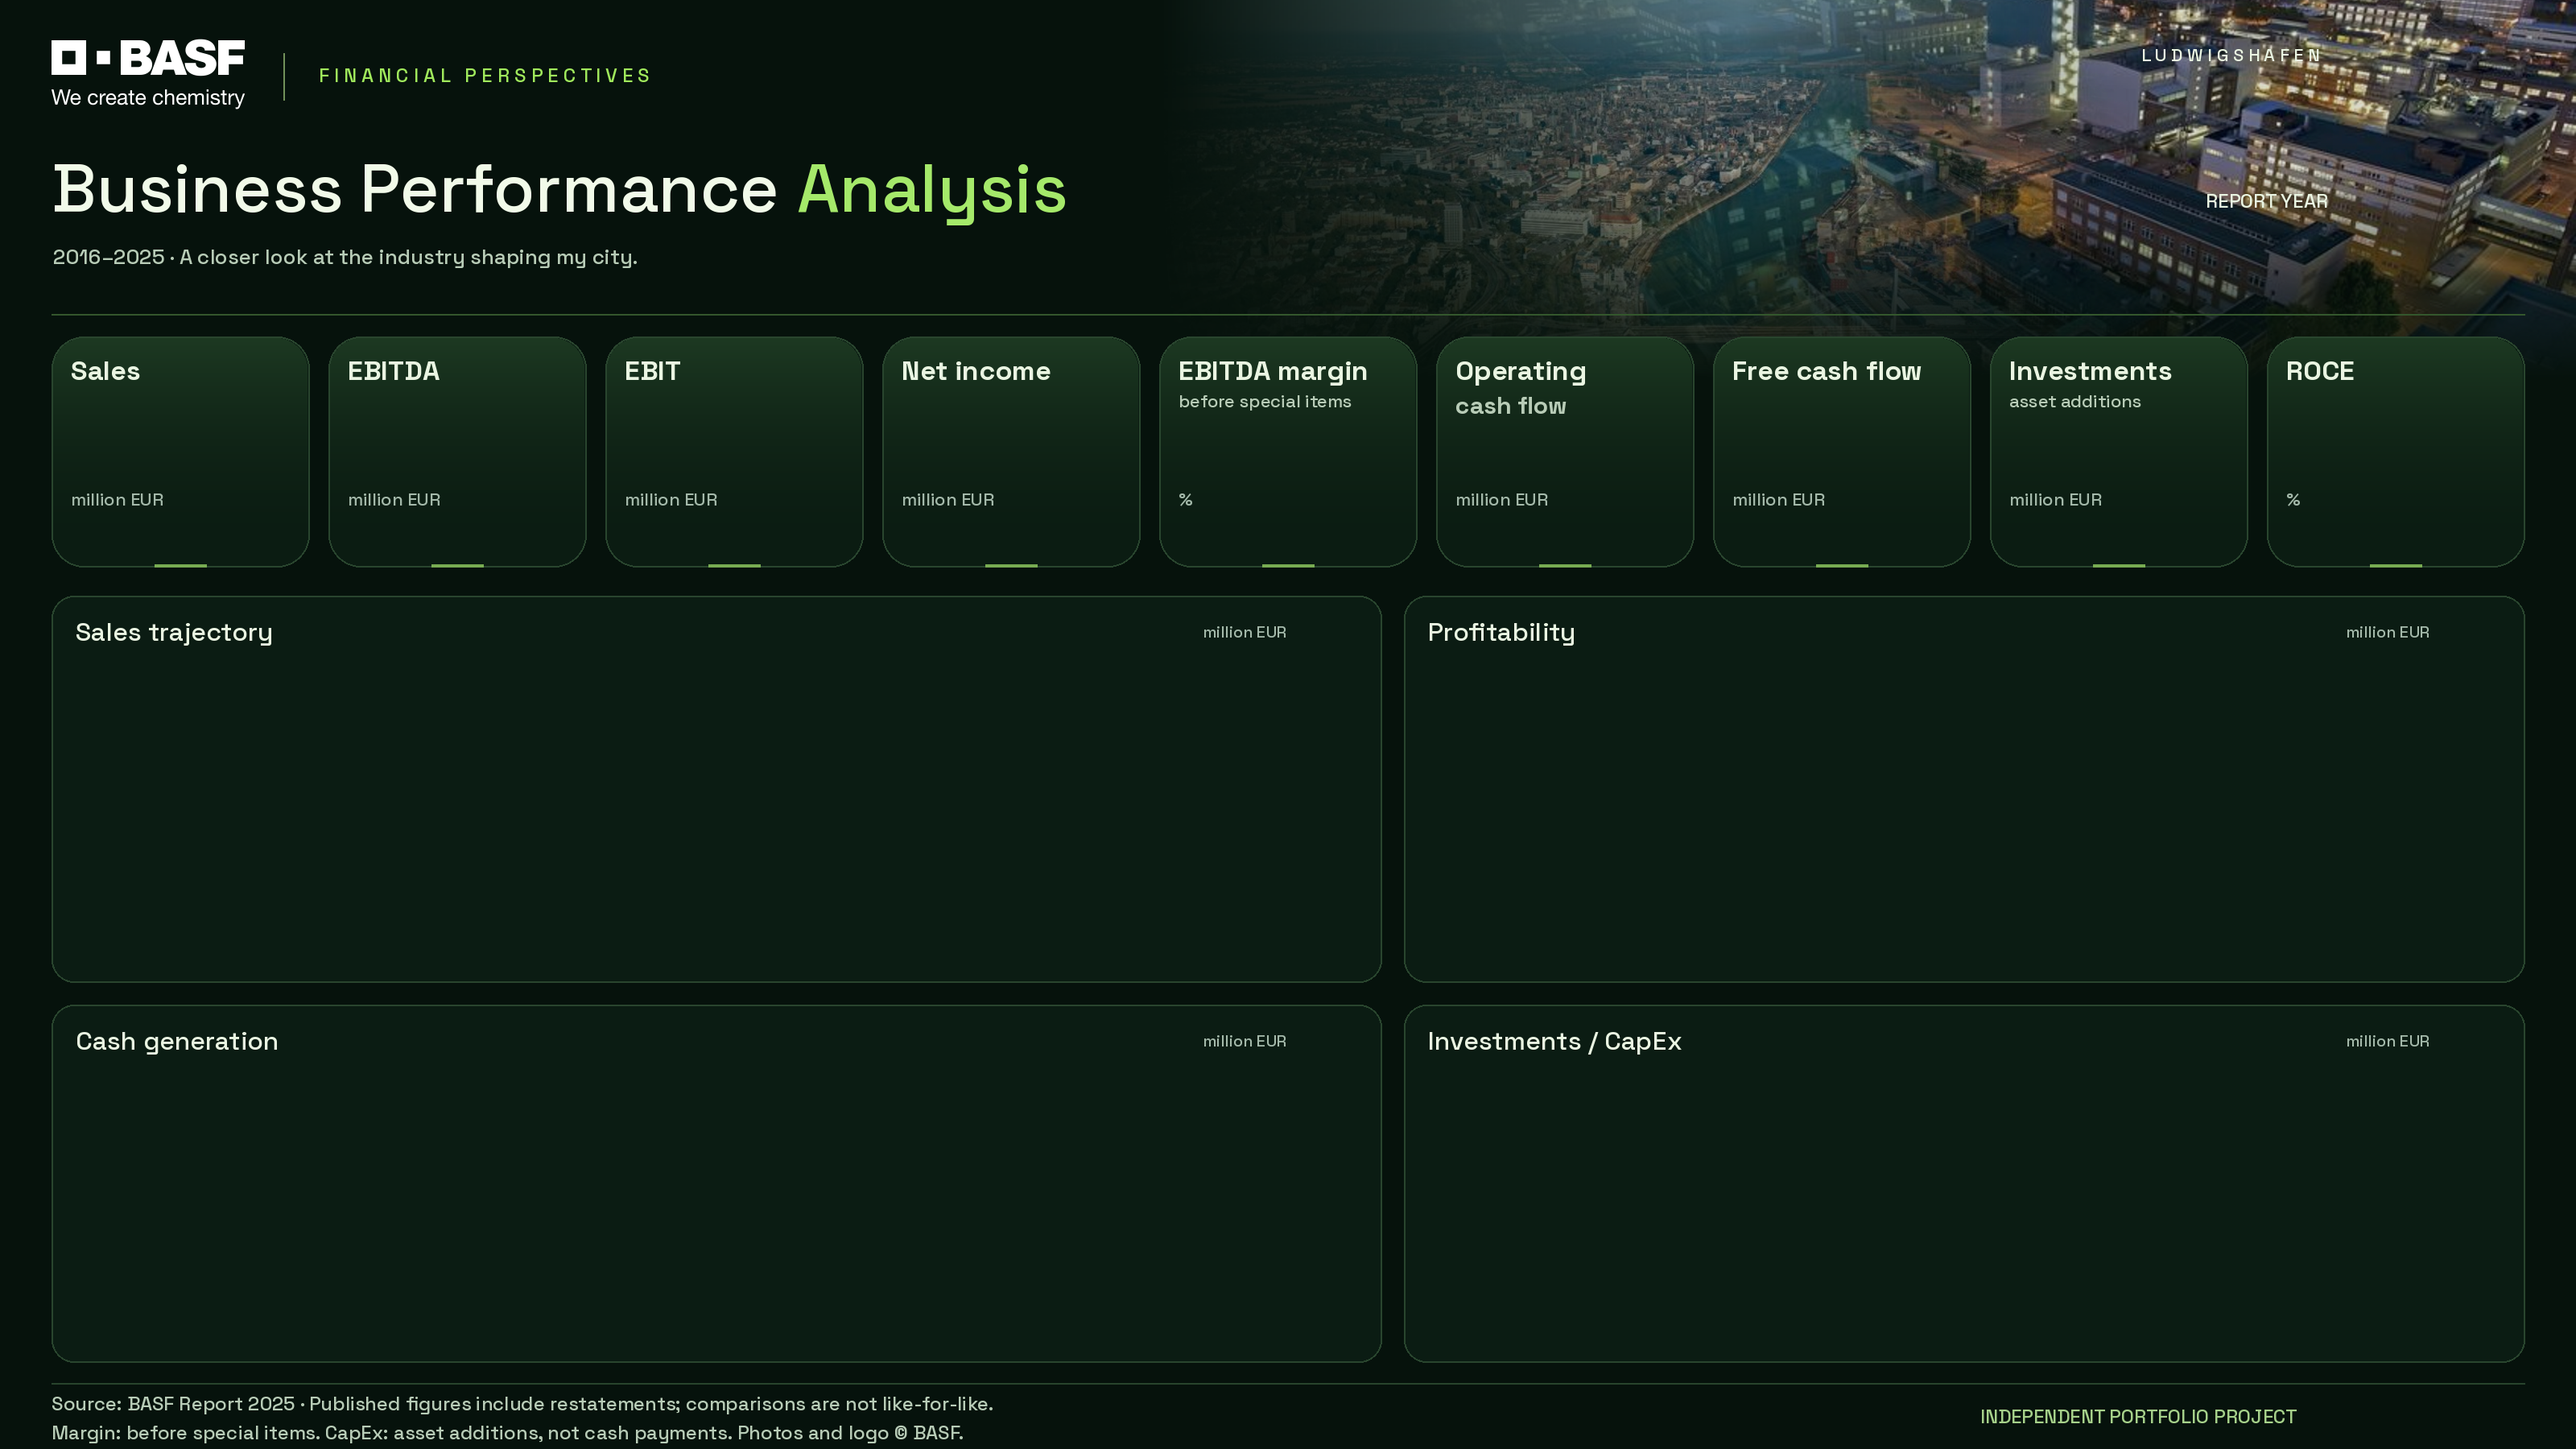
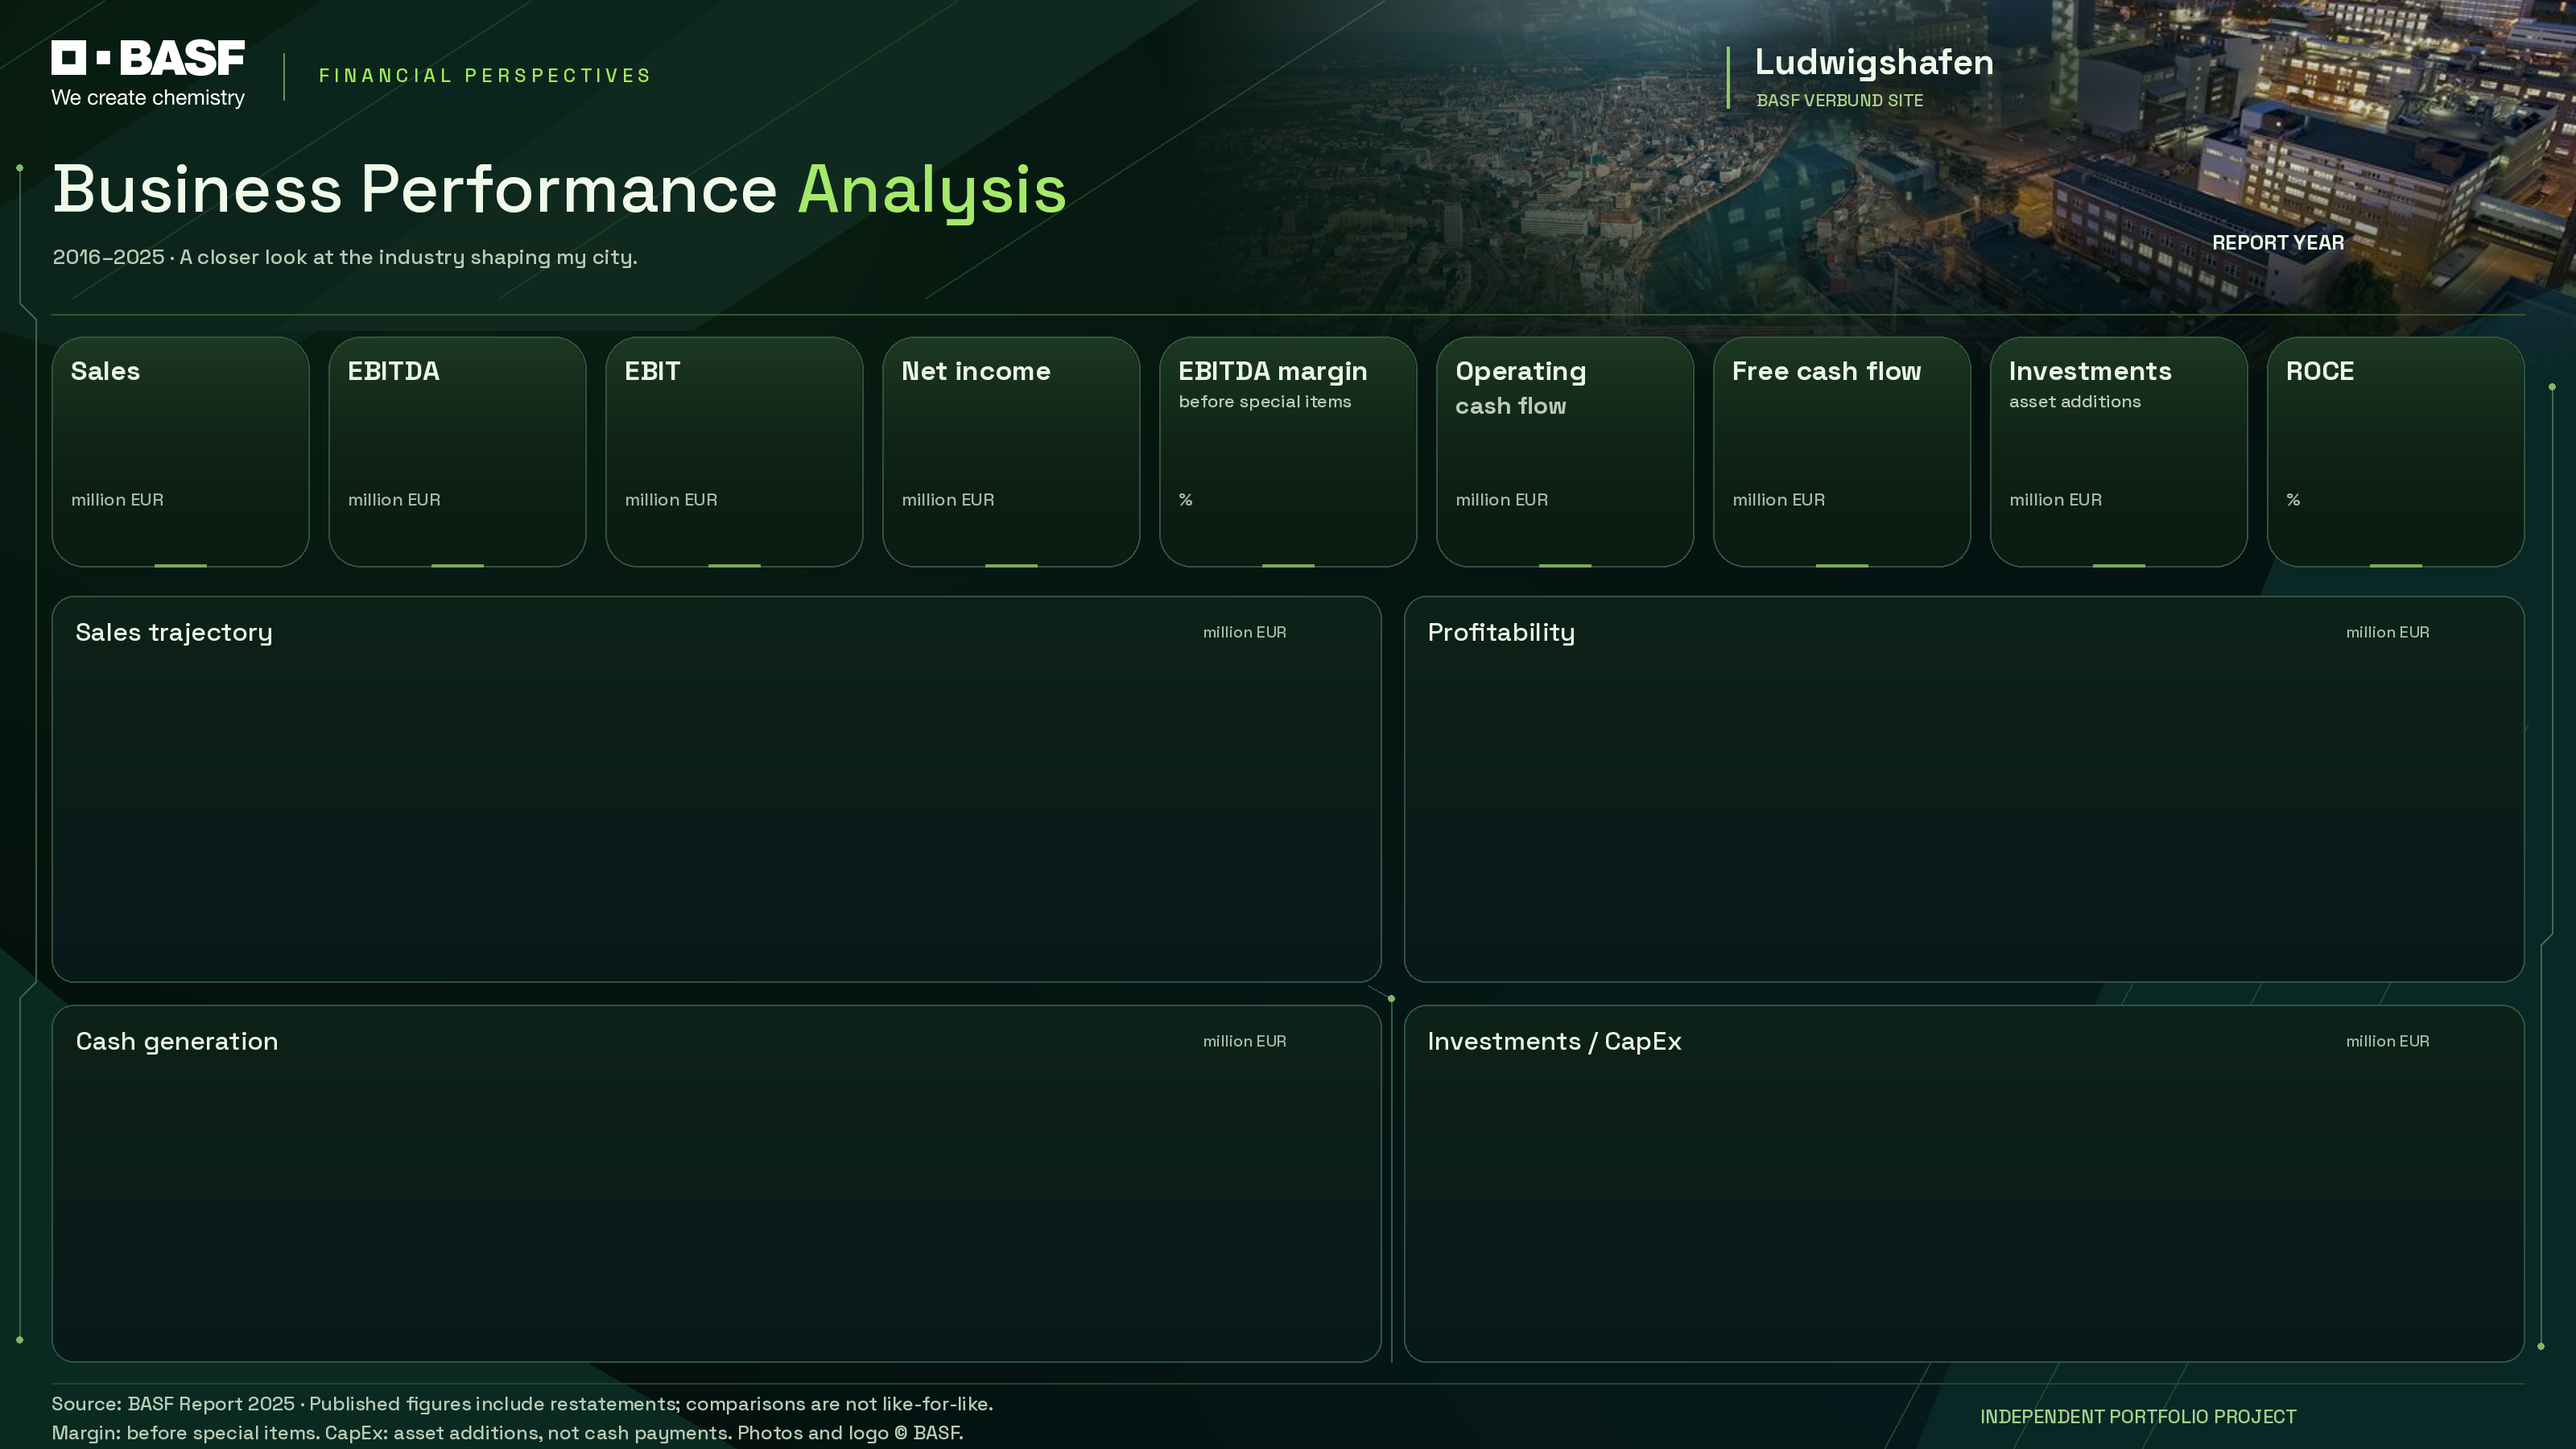
Add geometric green background and integrate header captions

Changed region(s): [[0.7188, 0.2489, 1.0, 1.0], [0.6562, 0.0, 0.875, 0.1244], [0.875, 0.1244, 0.9062, 0.1867]]

diff --git a/tools/render_powerbi_background.py b/tools/render_powerbi_background.py
@@ -4,6 +4,7 @@ Requires Pillow and Inkscape. Uses the original BASF logo SVG unchanged.
 Run from any directory: python tools/render_powerbi_background.py
 """
 from pathlib import Path
+import math
 import subprocess
 import tempfile
 from PIL import Image, ImageDraw, ImageFont, ImageOps, ImageFilter
@@ -14,7 +15,36 @@ OUT = BASE / 'BASF.Report/StaticResources/RegisteredResources'
 OUT.mkdir(parents=True, exist_ok=True)
 W, H = 1600, 900
 S = 2
-canvas = Image.new('RGB', (W*S, H*S), '#06120C')
+# Smooth emerald/teal light fields, with geometric facets in the negative space.
+# These are decorative assets, never financial chart marks.
+small = Image.new('RGB', (400, 225))
+px = small.load()
+for yy in range(225):
+    for xx in range(400):
+        u, v = xx/399, yy/224
+        emerald = math.exp(-((u-.16)**2/.15 + (v-.10)**2/.20))
+        teal = math.exp(-((u-.92)**2/.30 + (v-.88)**2/.25))
+        px[xx, yy] = (int(4+5*emerald+2*teal), int(14+17*emerald+14*teal), int(11+8*emerald+18*teal))
+canvas = small.resize((W*S, H*S), Image.Resampling.BICUBIC)
+art = ImageDraw.Draw(canvas)
+def polygon(points, fill):
+    art.polygon([(int(x*S), int(y*S)) for x,y in points], fill=fill)
+def trace(points, fill='#234936', width=1):
+    art.line([(int(x*S),int(y*S)) for x,y in points], fill=fill, width=width*S)
+
+polygon([(-80,180),(310,-70),(660,-70),(130,245)], '#0C251C')
+polygon([(490,-30),(790,-30),(430,205),(170,205)], '#10291E')
+polygon([(1460,230),(1660,150),(1660,900),(1190,900)], '#092725')
+polygon([(-40,555),(180,740),(510,930),(-40,930)], '#0A2921')
+for x in (-220, 45, 310, 575):
+    trace([(x,185),(x+285,0)], '#1C3C2B')
+for x in (1410,1490,1570):
+    trace([(x,450),(x-240,900)], '#20463C')
+trace([(12,104),(12,188),(22,198),(22,610),(12,620),(12,832)], '#396645')
+trace([(1585,240),(1585,580),(1578,587),(1578,836)], '#386C5C')
+trace([(850,612),(864,620),(864,846)], '#345E4E')
+for x,y in [(12,104),(12,832),(1585,240),(1578,836),(864,620)]:
+    art.ellipse(((x-2)*S,(y-2)*S,(x+2)*S,(y+2)*S),fill='#80B76A')
 
 # Original BASF photos, touching top/right edges, faded into the canvas.
 for filename, x, width, opacity in [('night.jpg', 890, 710, .85), ('day.jpg', 720, 600, .55)]:
@@ -36,7 +66,16 @@ def text(x, y, value, size=12, fill='#B8CCB7', strong=False):
     draw.text((x*S, y*S), value, font=ImageFont.truetype(str(ASSETS/face), size*S), fill=fill)
 
 def panel(x, y, w, h, radius=14):
-    draw.rounded_rectangle((x*S, y*S, (x+w)*S, (y+h)*S), radius=radius*S, fill='#0B1C13', outline='#29452E', width=S)
+    # Calm gradients inside plots preserve contrast without a flat black-green slab.
+    tile = Image.new('RGB', (w*S,h*S))
+    td = ImageDraw.Draw(tile)
+    for row in range(h*S):
+        t = row/(h*S)
+        td.line((0,row,w*S,row),fill=(int(13-5*t),int(34-9*t),int(24+2*t)))
+    mask = Image.new('L',tile.size)
+    ImageDraw.Draw(mask).rounded_rectangle((0,0,w*S-1,h*S-1),radius=radius*S,fill=255)
+    canvas.paste(tile,(x*S,y*S),mask)
+    draw.rounded_rectangle((x*S,y*S,(x+w)*S,(y+h)*S),radius=radius*S,outline='#315341',width=S)
 
 with tempfile.TemporaryDirectory() as temp:
     p = Path(temp)/'logo.png'
@@ -51,8 +90,16 @@ font = ImageFont.truetype(str(ASSETS/'SpaceGrotesk-Medium.ttf'), 42*S)
 advance = draw.textlength('Business Performance ', font=font)/S
 text(32+advance, 90, 'Analysis', 42, '#A5E96A')
 text(33, 151, '2016–2025 · A closer look at the industry shaping my city.', 13)
-text(1330, 27, 'L U D W I G S H A F E N', 11, '#EAF5E2')
-text(1370, 117, 'REPORT YEAR', 12, '#EAF5E2')
+# Location belongs to the photo treatment rather than floating in a corner.
+shade = Image.new('RGBA',canvas.size)
+ImageDraw.Draw(shade).ellipse((1050*S,4*S,1390*S,95*S),fill=(3,18,14,155))
+shade = shade.filter(ImageFilter.GaussianBlur(19*S))
+canvas.paste(shade,(0,0),shade)
+draw.line((1073*S,29*S,1073*S,67*S),fill='#8ECD68',width=2*S)
+text(1090, 24, 'Ludwigshafen', 22, '#EFF8E9', strong=True)
+text(1091, 55, 'BASF VERBUND SITE', 11, '#A8D18A')
+# The native dropdown sits toward the bottom of its slicer box.
+text(1374, 142, 'REPORT YEAR', 13, '#EAF5E2', strong=True)
 draw.line((32*S, 195*S, 1568*S, 195*S), fill='#34572D', width=S)
 
 labels = [('Sales', ''), ('EBITDA', ''), ('EBIT', ''), ('Net income', ''),

diff --git a/docs/powerbi_implementation.md b/docs/powerbi_implementation.md
@@ -43,6 +43,14 @@ slicer selection and enlarges the source/comparability footer to 12px. The saved
 selection also passed Microsoft's semantic-filter schema check. V5 initial
 selection and footer rendering still require Desktop review.
 
+The V5 screenshot subsequently confirmed the visible 2025 selection and enlarged
+footer. V6 changes only the decorative background: emerald/teal gradients,
+diagonal facets and perimeter traces; a larger Ludwigshafen caption integrated
+with the photographs; and a report-year caption positioned nearer the native
+dropdown. Plot surfaces remain quiet gradients without decorative data marks.
+Native visual geometry, measures and the data snapshot are unchanged. V6 caption
+alignment and decorative rendering remain subject to Desktop review.
+
 ## Opening the project on Windows
 
 1. Extract the complete package with **Extract all**. Do not open files inside
@@ -131,7 +139,7 @@ Completed outside Desktop:
   filenames and theme registration checked.
 - Decorative background rendered and visually inspected separately.
 
-**Pending in Desktop for V5:** reopen/refresh, visible 2025 selection and footer legibility, full DAX acceptance tests, font rendering, chart
+**Pending in Desktop for V6:** reopen/refresh, caption alignment and decorative background, full DAX acceptance tests, font rendering, chart
 colours, negative profitability values, legends, label clipping, slicer operation,
 blank display, keyboard readability and final PDF/screenshot export. Run
 `BASF/verify_in_desktop.dax` in DAX Query View; it must return PASS on every row.

diff --git a/docs/powerbi_design.md b/docs/powerbi_design.md
@@ -14,7 +14,10 @@ Its definitions have passed structural/schema checks. The V2 Desktop review
 confirmed the 2025 values and native charts; V3 corrects the absent decorative
 background and font fallback. V3 rendering was confirmed; V4 addresses overlapping
 callouts/units and strengthens KPI headings. V4 spacing was confirmed; V5 sets an
-explicit initial 2025 selection and enlarges footer notes. Final V5 appearance and acceptance checks remain
+explicit initial 2025 selection and enlarges footer notes, confirmed in Desktop.
+V6 adds emerald/teal geometric facets and perimeter traces, integrates the
+Ludwigshafen caption with the photos and places the report-year caption nearer
+the dropdown. Final V6 appearance and acceptance checks remain
 pending. See [implementation status and opening
 instructions](powerbi_implementation.md). The browser preview remains a separate
 design reference.
@@ -23,6 +26,8 @@ design reference.
 
 - A single landscape page, targeting a 16:9 desktop canvas.
 - Dark green background with bright green accents and readable pale text.
+- Native V6 refinement: emerald/teal gradients, diagonal facets and perimeter
+  traces outside the data areas; subdued gradient plot surfaces.
 - Space Grotesk for the title, values and labels; the browser preview loads the
   font from Google Fonts and falls back to Segoe UI if unavailable.
 - The original white BASF logo and its “We create chemistry” claim at top left.

diff --git a/powerbi/BASF/START_HERE.it.md b/powerbi/BASF/START_HERE.it.md
@@ -1,12 +1,13 @@
 # Aprire il progetto BASF
 
-Questa è la versione V5 del progetto nativo Power BI, con il 2025 preselezionato
-e note finali più leggibili. La V4 ha confermato titoli delle schede più grandi e
-in grassetto e separazione di numeri e unità. La selezione iniziale e le note V5
-vanno ancora verificate in Desktop. Il precedente file di preparazione
+Questa è la versione V6 del progetto nativo Power BI, con sfondo geometrico
+smeraldo/teal, Ludwigshafen integrata sopra le foto e «Report year» più vicino
+al selettore. La V5 ha confermato il 2025 preselezionato e note finali più leggibili.
+L'allineamento delle nuove scritte e lo sfondo V6 vanno ancora verificati in Desktop.
+Il precedente file di preparazione
 non viene modificato.
 
-Pacchetto corretto V5: estrailo in una cartella nuova. Non sovrascrivere la prima
+Pacchetto V6: estrailo in una cartella nuova. Non sovrascrivere la prima
 prova già aperta o aggiornata da Power BI. Chiudi quella finestra prima di aprire
 questo progetto. Se compare ancora l'avviso rosso sui metadati avanzati, non premere
 «Aggiorna report»: mostra l'avviso per proseguire con la diagnosi.

diff --git a/README.de.md b/README.de.md
@@ -175,7 +175,9 @@ Hintergrundbild-Struktur und die Schrift-Ausweichlösung korrigiert.
 Die V3-Prüfung bestätigte den Hintergrund. V4 vergrößert die Kennzahlentitel und
 trennt Werte und Einheiten deutlicher. Die V4-Aufnahme bestätigte diese Abstände;
 V5 speichert 2025 als sichtbare Vorauswahl und vergrößert die Fußnoten.
-**V5-Darstellung, Jahresauswahl und vollständige DAX-Prüfungen stehen noch aus.** Der Bericht ist daher noch kein
+Die V5-Aufnahme bestätigte diese Anpassungen. V6 ergänzt einen geometrischen
+Hintergrund in Smaragdgrün/Teal und verbessert die Platzierung von Orts- und Jahresbeschriftung.
+**V6-Darstellung, Jahresauswahl und vollständige DAX-Prüfungen stehen noch aus.** Der Bericht ist daher noch kein
 fertig validiertes Dashboard. Die [Anleitung und Prüfschritte](docs/powerbi_implementation.md)
 dokumentieren den aktuellen Stand.
 

diff --git a/README.md b/README.md
@@ -170,7 +170,9 @@ I then corrected the background-image structure and font fallback in V3.
 The V3 review confirmed the background; V4 strengthens KPI headings and separates
 values from their unit labels. The V4 screenshot confirmed that spacing; V5 saves
 2025 as the visible initial selection and enlarges the footer notes.
-**V5 appearance, year interactions and the full DAX acceptance checks remain pending**;
+The V5 screenshot confirmed these refinements. V6 adds geometric emerald/teal
+background details and improves placement of the location and year captions.
+**V6 appearance, year interactions and the full DAX acceptance checks remain pending**;
 this is not yet a completed or validated dashboard. See the
 [opening instructions, measures and acceptance checks](docs/powerbi_implementation.md).
 
